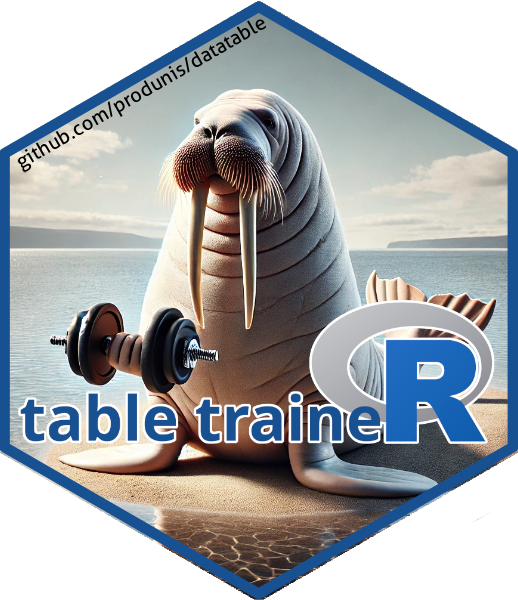
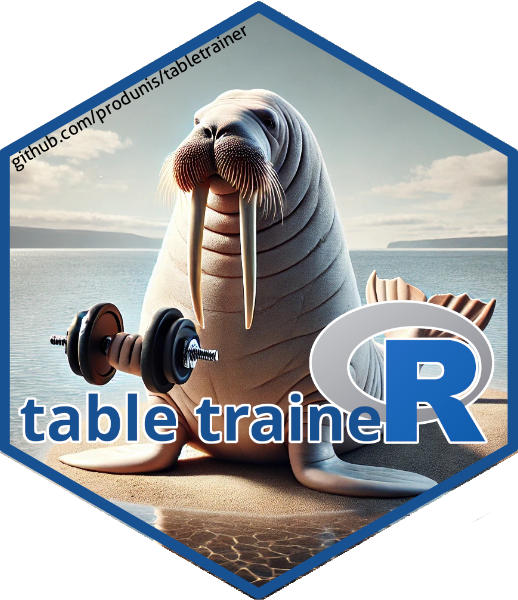
hexstickers

Changed region(s): [[0.0309, 0.03, 0.5251, 0.3]]

diff --git a/README.md b/README.md
@@ -1,6 +1,9 @@
 # table traineR
 
-<img src="https://i.imgur.com/Tu5jarn.png" width="200">
+<img src="https://i.imgur.com/NwhHC2V.png" width="200">
+
+This is the repository of the "table traineR," a free exercise book for the R package `{data.table}`. This book is in German language.
+
 
 
 Ein freies Übungsbuch für das R-Paket `{data.table}`
